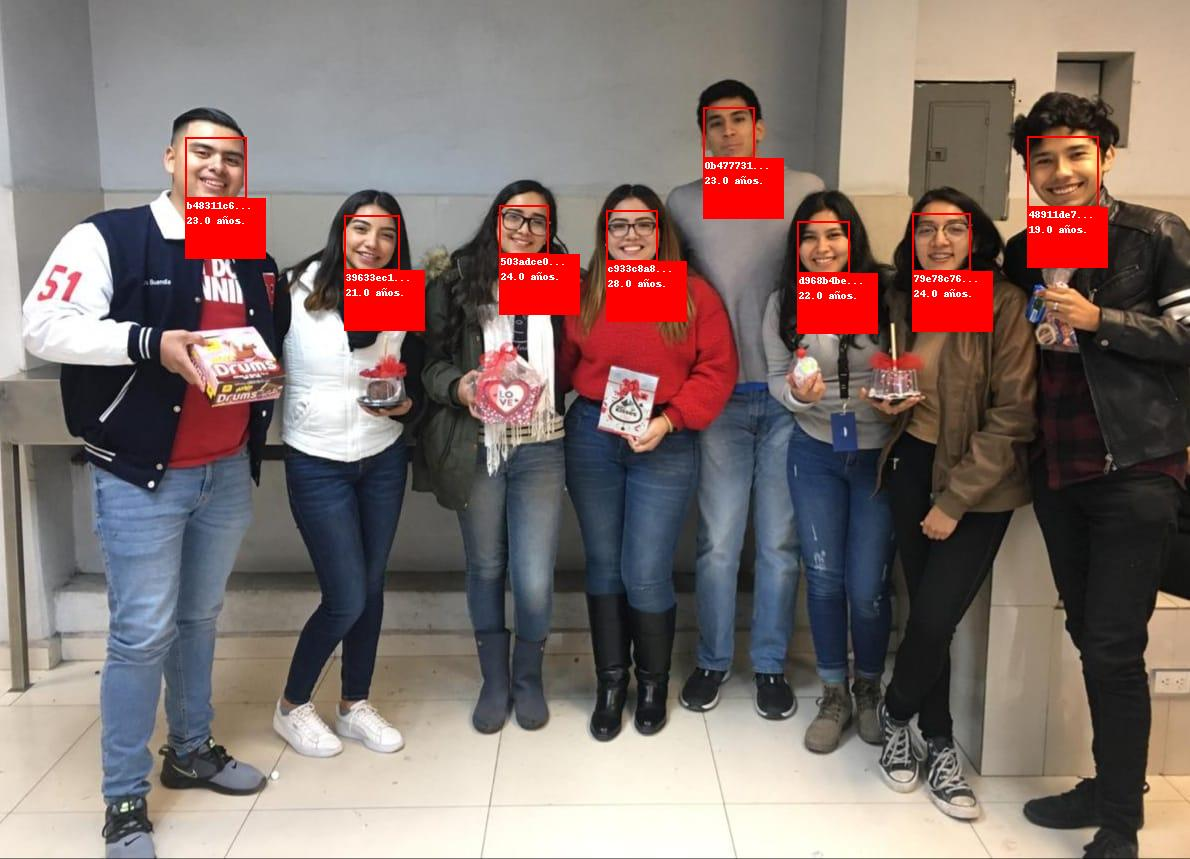
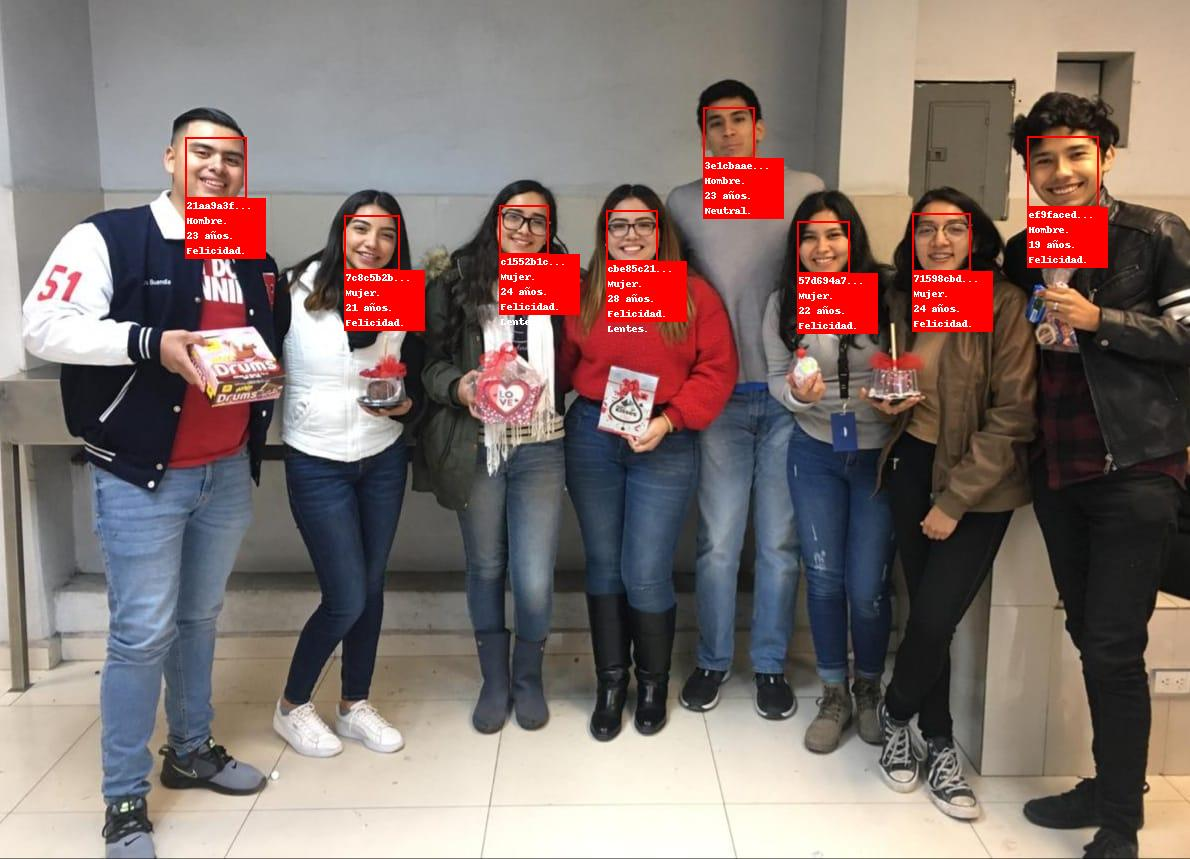
GUI Refactor

diff --git a/Interface/Interface.py b/Interface/Interface.py
@@ -1,0 +1,111 @@
+import tkinter
+from Views import PictureRecognitionView
+from tkinter import *
+from tkinter import ttk, filedialog
+from PIL import ImageTk, Image
+
+def interface():
+    # Start the window and set initial parameters.
+    root = Tk()
+    root.geometry('900x600')
+    root.resizable(width=True, height=True)
+    root.title('Picture Recognition')
+    
+    # Styles --------------------------------------------------------------------------------------------------------------------------
+    style = ttk.Style()
+
+    # Fonts.
+    style.configure('TMenubutton', font=('Helvetica', 10))
+    style.configure('TButton', font=('Helvetica', 10))
+    style.configure('TLabel', font=('Helvetica', 10))
+
+    # Backgrounds.
+    style.configure('TFrame')
+    style.configure('red.TFrame', background='red')
+
+    paddings = {'padx': 5, 'pady': 5}
+
+    # Functions --------------------------------------------------------------------------------------------------------------------------
+    # About us.
+    def about_button():
+        tkinter.messagebox.showinfo("About",
+        "Universidad Autonoma de Nuevo Leon\n"
+        "Facultad de Ciencias Fisico Matematicas\n"
+        "033 Sistemas Embebidos Avanzados\n\n"
+        "Team #1\n"
+        "Members:\n"
+        "\n"
+        "\n"
+        "\n"
+        "\n\n"
+        "Powered by Microsoft Azure Face API"
+        )
+
+    # Contact
+    def contact_button():
+        tkinter.messagebox.showinfo("Contact",
+        "You can contact the contributors via email.\n\n"
+        "\n"
+        "\n"
+        "\n"
+        "\n"
+        )
+    
+    # Opens the file explorer and gets a file's path.
+    def open_img():
+        filename = filedialog.askopenfilename(title='open')
+        print(filename)
+        return filename
+
+    # Displays the 'result.jpg' image of the root folder by updating the panel label declared below.
+    def _display_img():
+        # Get the image from the root folder.
+        image = Image.open('result.jpg')
+        image = ImageTk.PhotoImage(image)
+
+        # Update the label.
+        label.config(image = image)
+        label.image = image
+
+    def button_logic(option):
+        if(option == 'Basic'): PictureRecognitionView.picture_face_recognition_gui(open_img())
+        if(option == 'Features'): PictureRecognitionView.facial_recognition_with_features_gui(open_img())
+        _display_img()
+
+    # Frames --------------------------------------------------------------------------------------------------------------------------
+    # Contains intro text, dropdown menu, and button.
+    topframe = ttk.Frame(root)
+    topframe.pack(side=TOP)
+
+    # Contains panel label.
+    bottomframe = ttk.Frame(root)
+    bottomframe.pack(side= BOTTOM, fill=BOTH, expand=True)
+
+    # Widgets --------------------------------------------------------------------------------------------------------------------------
+    # Upper menu.
+    menu = Menu(root)
+    root.config(menu=menu)
+    menu.add_command(label='Contact', command=contact_button)
+    menu.add_command(label='About', command=about_button)
+    menu.add_command(label='Exit', command=root.quit)
+    
+    # Text.
+    intro_text = 'Reconocimiento facial y deteccion de caracteristicas.'
+    intro = ttk.Label(topframe, text = intro_text)
+    intro.grid(column = 0, columnspan = 2, row = 0, **paddings)
+
+    # Button, calls button logic. Uses lambda function to send function with arguments.
+    button = ttk.Button(topframe, text='Analyze Picture', command=lambda: button_logic(chosen.get()))
+    button.grid(column = 0, row = 1, sticky = "e", **paddings)
+
+    # Dropdown menu.
+    options = ['Basic', 'Features']
+    chosen = StringVar()
+    dropdown = ttk.OptionMenu(topframe, chosen, options[0], *options)
+    dropdown.grid(column = 1, row = 1, sticky = "w", **paddings)
+
+    # Image panel, declared in here to  be updated when we press the button instead of creating a widget everytime.
+    label = Label(bottomframe)
+    label.pack(side = BOTTOM, fill = "both", expand = True, **paddings)
+
+    root.mainloop()

diff --git a/run.py b/run.py
@@ -1,9 +1,5 @@
-import tkinter
-from tkinter import filedialog
 from Views import PictureRecognitionView
-from tkinter import *
-from tkinter import filedialog
-from PIL import ImageTk, Image
+from Interface import Interface
 
 def run():
     try:
@@ -27,44 +23,5 @@ def run():
         else:
             print(f"\nSin acción")
 
-root = Tk()
-root.geometry("550x300+300+150")
-root.resizable(width=True, height=True)
-
-def open_img():
-    filename = filedialog.askopenfilename(title='open')
-    print(filename)
-    return filename
-
-def display_img():
-    x = open_img()
-    img = Image.open(x)
-    img = img.resize((250, 250), Image.ANTIALIAS)
-    img = ImageTk.PhotoImage(img)
-    panel = Label(root, image=img)
-    panel.image = img
-    panel.pack()
-
-def button_logic():
-    PictureRecognitionView.facial_recognition_with_features_gui(open_img())
-    img = Image.open('result.jpg')
-    img = img.resize((250, 250), Image.ANTIALIAS)
-    img = ImageTk.PhotoImage(img)
-    panel = Label(root, image=img)
-    panel.image = img
-    panel.pack()
-
-
-def run_gui():
-    
-    root.title('Picture Recognition')
-
-    button = tkinter.Button(root, text='Select Picture', width=25, command=button_logic)
-    button.pack()
-
-    
-    root.mainloop()
-
-
 if __name__ == "__main__":
-    run()
+    Interface.interface()

diff --git a/Views/PictureRecognitionView.py b/Views/PictureRecognitionView.py
@@ -27,9 +27,17 @@ def facial_recognition_with_features(image_name):
             picture.save("result.jpg")
             picture.close()
 
+def picture_face_recognition_gui(image_path):
+    data, image = FaceDetectController.face_identify_by_path(image_path)
+    
+    if (data != None) and (image != None):
+        picture = DrawingFunctions.draw_rectangles_in_faces(data, image)
+        
+        if picture != None:
+            picture.save("result.jpg")
 
-def facial_recognition_with_features_gui(image_name):
-    data, image = FaceDetectController.face_identify_by_path(image_name)
+def facial_recognition_with_features_gui(image_path):
+    data, image = FaceDetectController.face_identify_by_path(image_path)
     
     if (data != None) and (image != None):
         picture = DrawingFunctions.draw_features(data, image)
